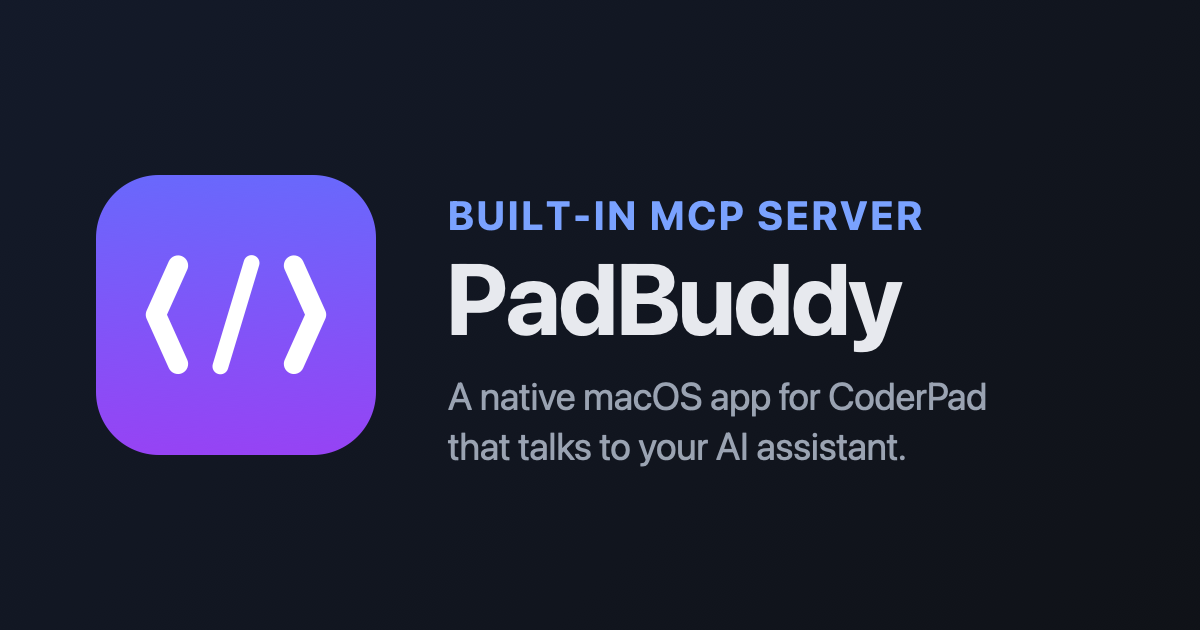
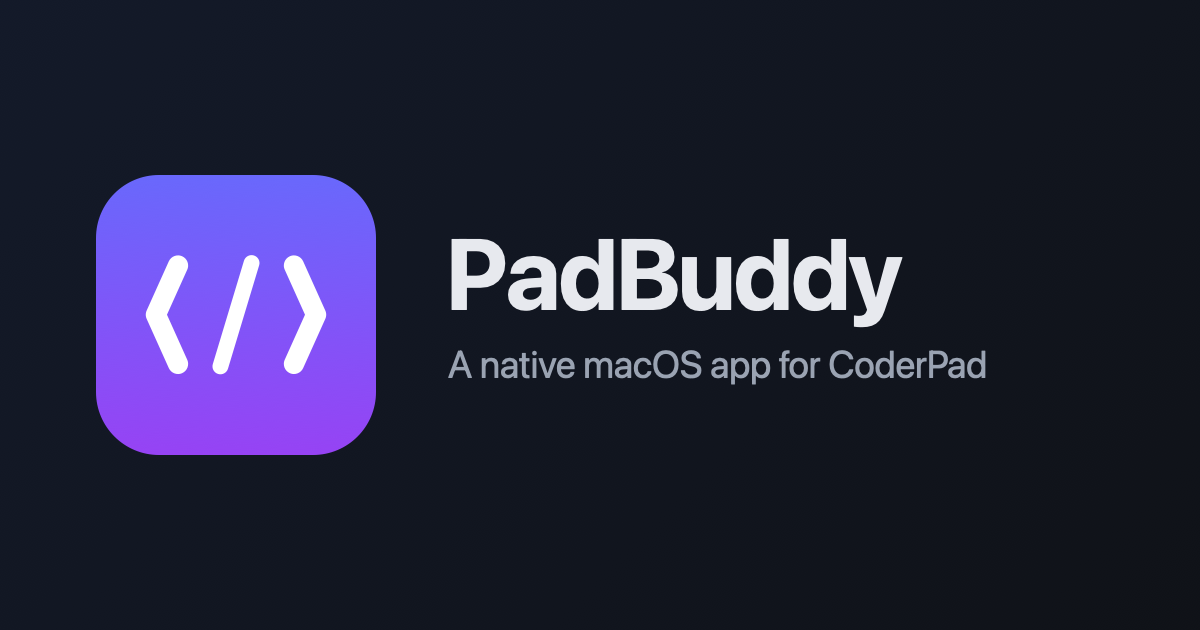
Drop MCP server from the share-card tagline
The iMessage/social link preview led with a bold "BUILT-IN MCP SERVER"
eyebrow and a "talks to your AI assistant" tagline. Reduce the og-image
card to just the name and "A native macOS app for CoderPad", and remove
the MCP mention from the og/twitter descriptions and image alt text.

Changed region(s): [[0.37, 0.3016, 0.8325, 0.6635], [0.37, 0.6937, 0.7708, 0.754]]

diff --git a/docs/index.html b/docs/index.html
@@ -24,18 +24,18 @@
   <meta property="og:site_name" content="PadBuddy" />
   <meta property="og:title" content="PadBuddy, a native macOS app for CoderPad" />
   <meta property="og:description"
-        content="A fast, native macOS app for your CoderPad pads and questions, with a built-in MCP server for your AI assistant." />
+        content="A fast, native macOS app for your CoderPad pads and questions." />
   <meta property="og:url" content="https://padbuddy.app/" />
   <meta property="og:image" content="https://padbuddy.app/assets/og-image.png" />
   <meta property="og:image:width" content="1200" />
   <meta property="og:image:height" content="630" />
-  <meta property="og:image:alt" content="PadBuddy app icon and name, with the tagline: a native macOS app for CoderPad that talks to your AI assistant." />
+  <meta property="og:image:alt" content="PadBuddy app icon and name, with the tagline: a native macOS app for CoderPad." />
 
   <!-- Twitter -->
   <meta name="twitter:card" content="summary_large_image" />
   <meta name="twitter:title" content="PadBuddy, a native macOS app for CoderPad" />
   <meta name="twitter:description"
-        content="A fast, native macOS app for your CoderPad pads and questions, with a built-in MCP server for your AI assistant." />
+        content="A fast, native macOS app for your CoderPad pads and questions." />
   <meta name="twitter:image" content="https://padbuddy.app/assets/og-image.png" />
 
   <link rel="stylesheet" href="style.css" />
@@ -81,7 +81,7 @@
         <img src="assets/screenshot-pads@2x.png"
              srcset="assets/screenshot-pads.png 1100w, assets/screenshot-pads@2x.png 2200w"
              sizes="(min-width: 1106px) 1040px, 94vw"
-             width="1100" height="783" loading="eager" decoding="async"
+             width="1100" height="839" loading="eager" decoding="async"
              alt="The PadBuddy window: a sidebar of sections, a filterable list of interview
                   pads, and a detail pane with participants and syntax-highlighted code." />
       </picture>
